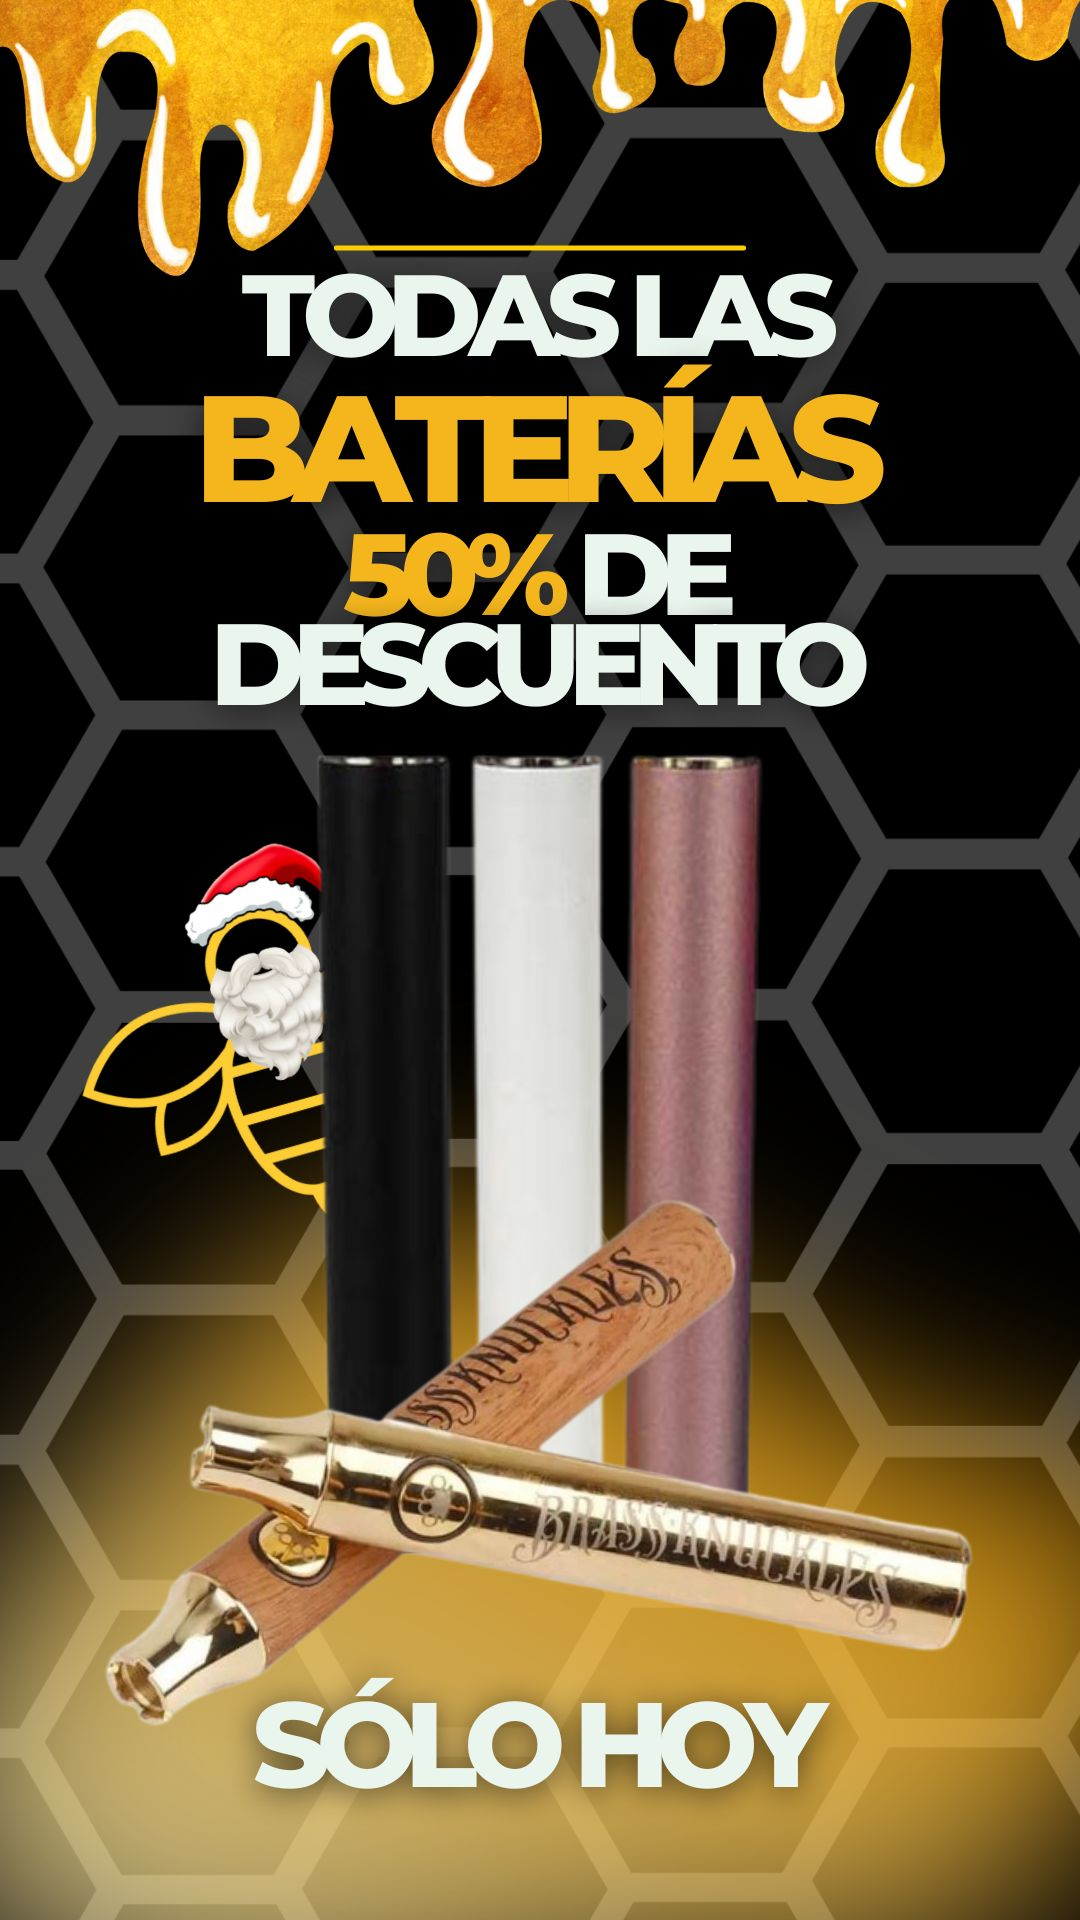
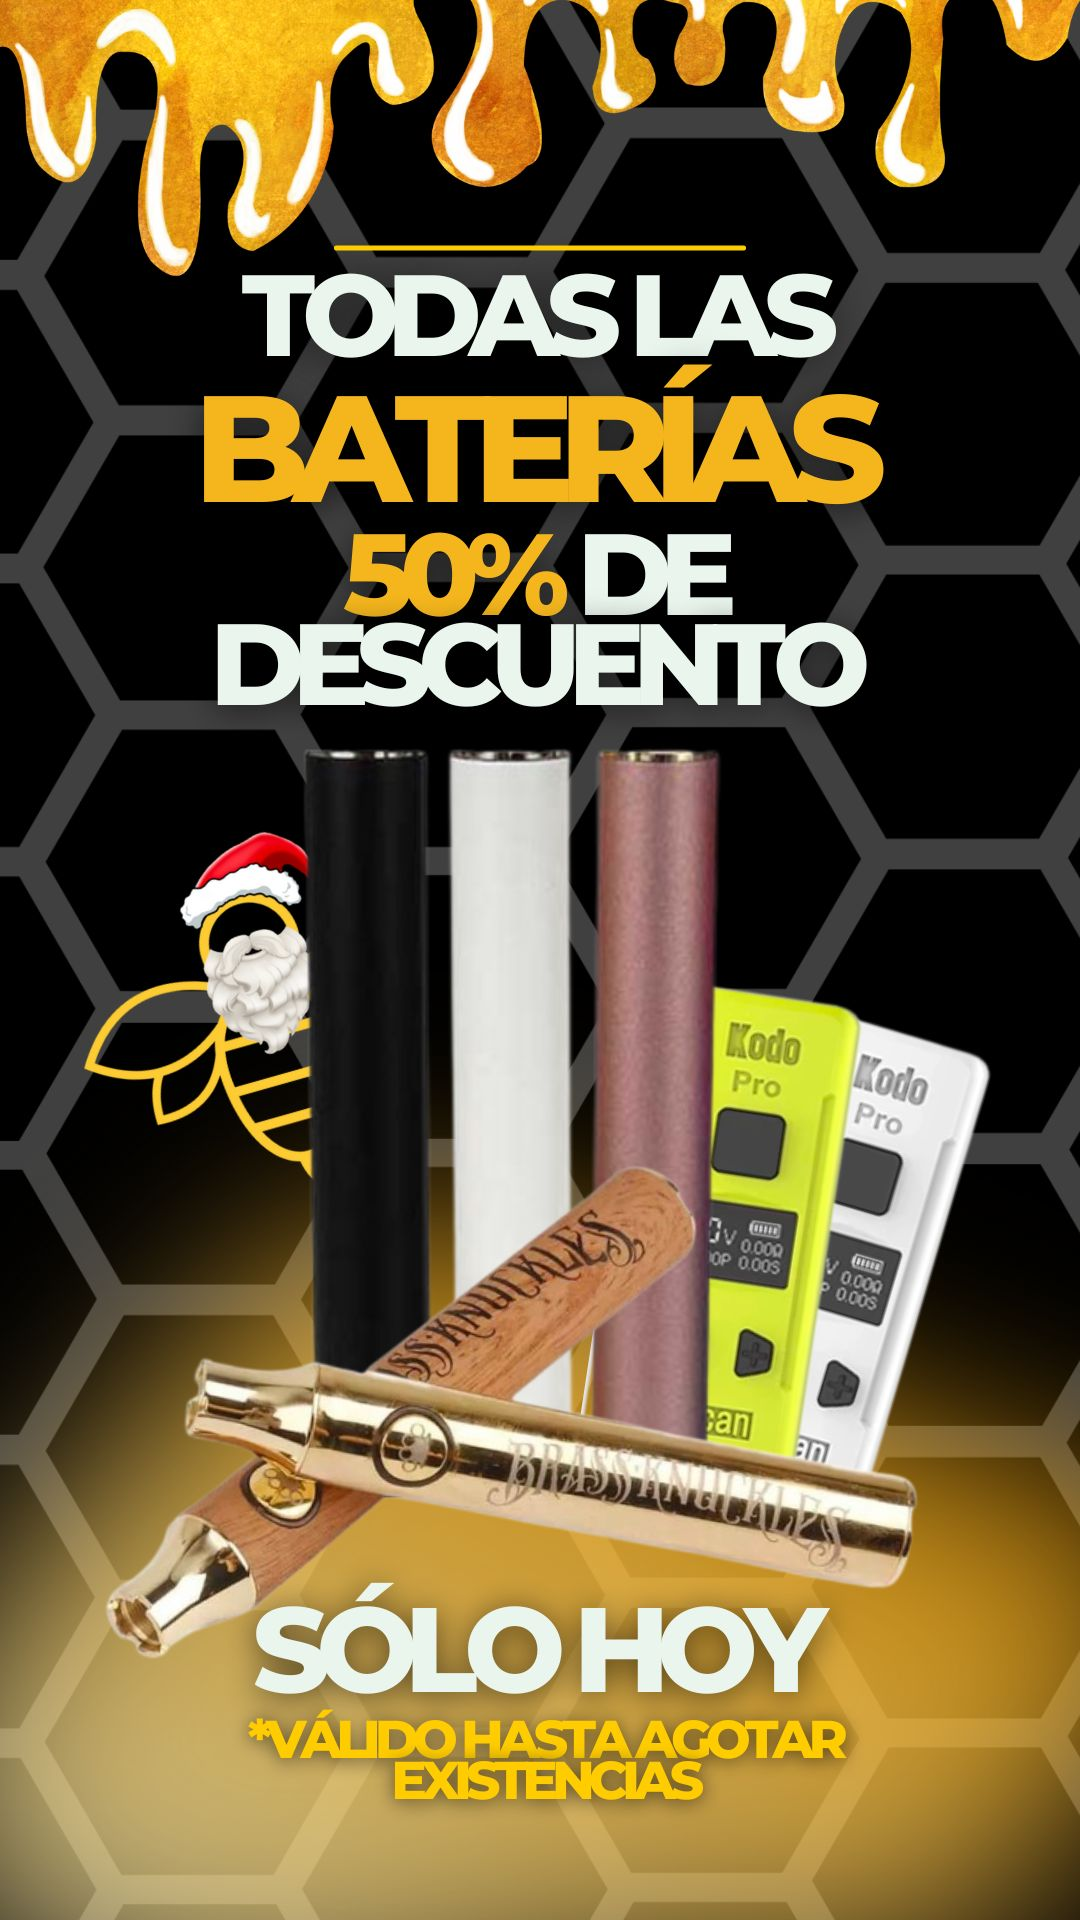
add promos

Changed region(s): [[0.0611, 0.375, 0.9167, 0.9375]]

diff --git a/home.html b/home.html
@@ -114,7 +114,7 @@
 
             <article class="slide">
                 <div class="infoProducto">
-                    <img src="/media/beerne.jpg" alt="Promo1" class="imagenPromo"> <!--dejar esta promo siempre-->
+                    <img src="/media/BEEERNES.jpg" alt="Promo1" class="imagenPromo"> <!--dejar esta promo siempre-->
                 </div>
             </article>
 
